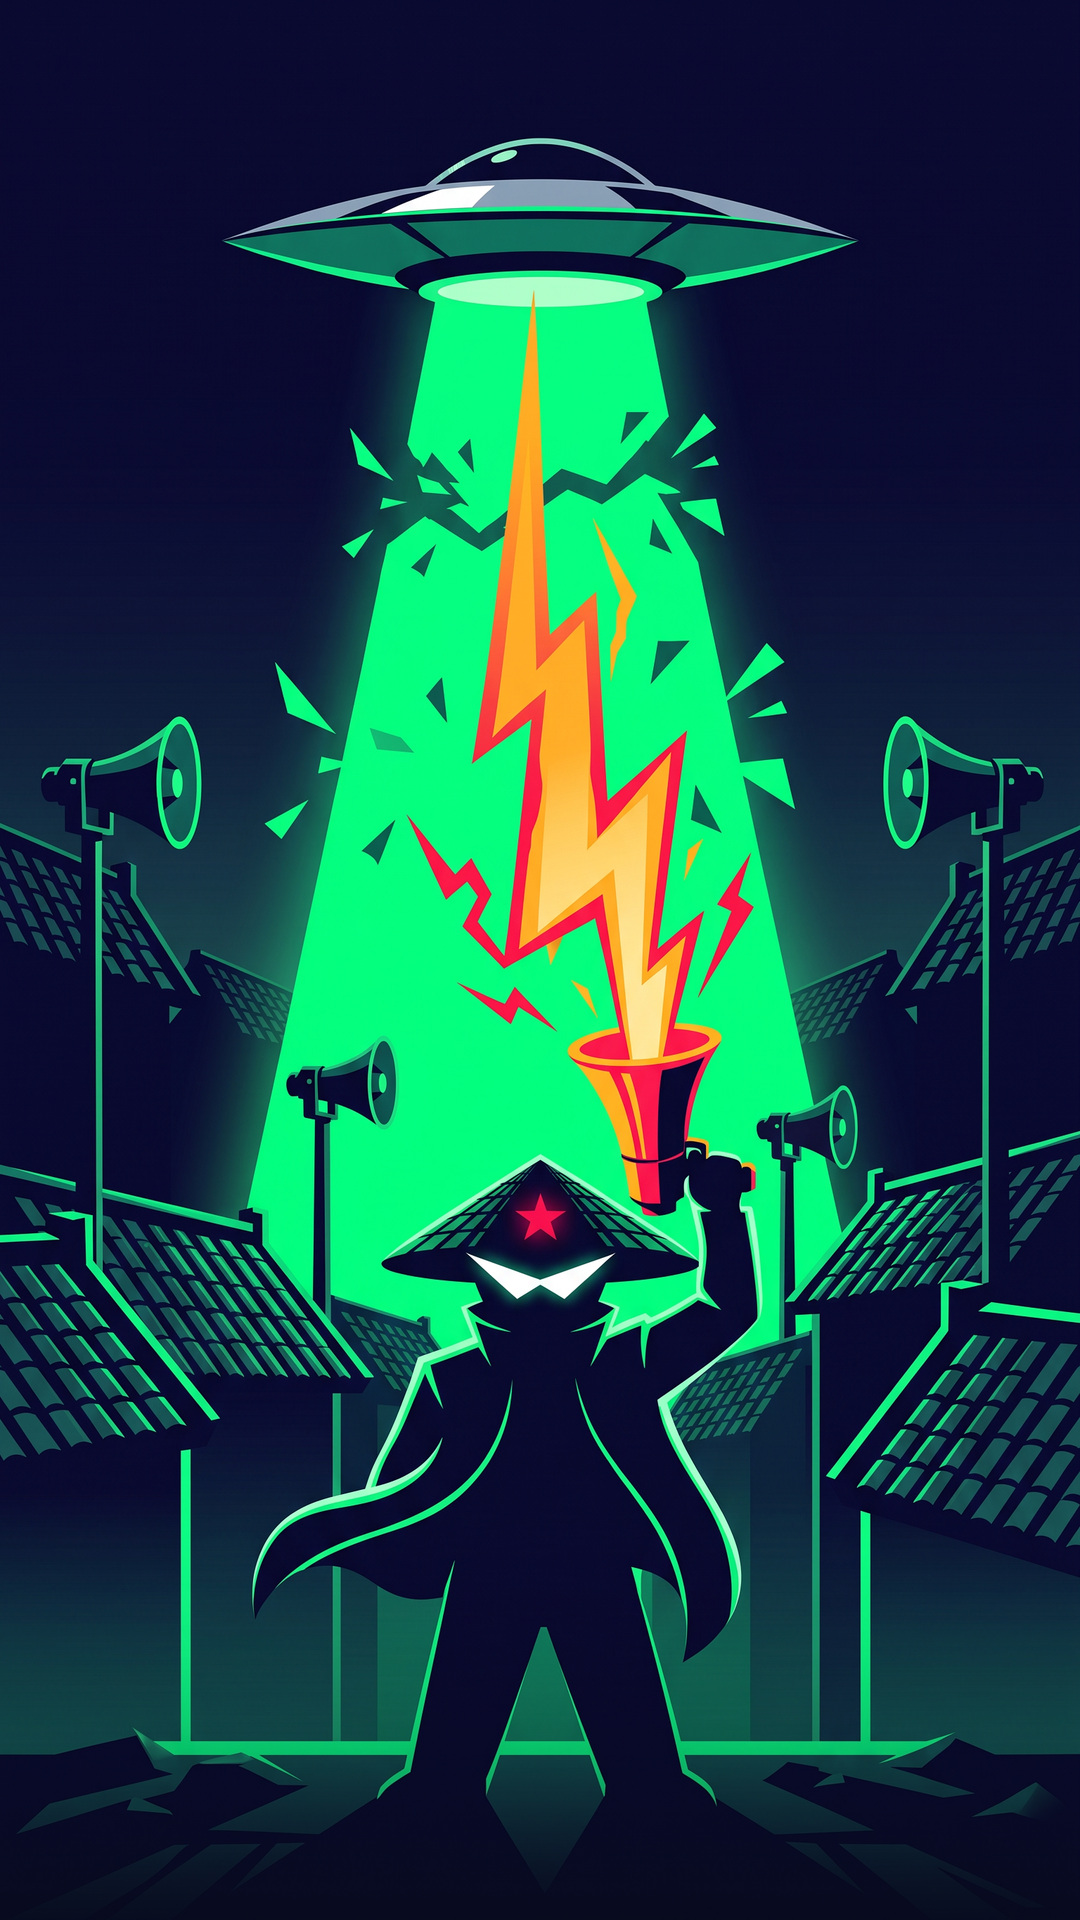
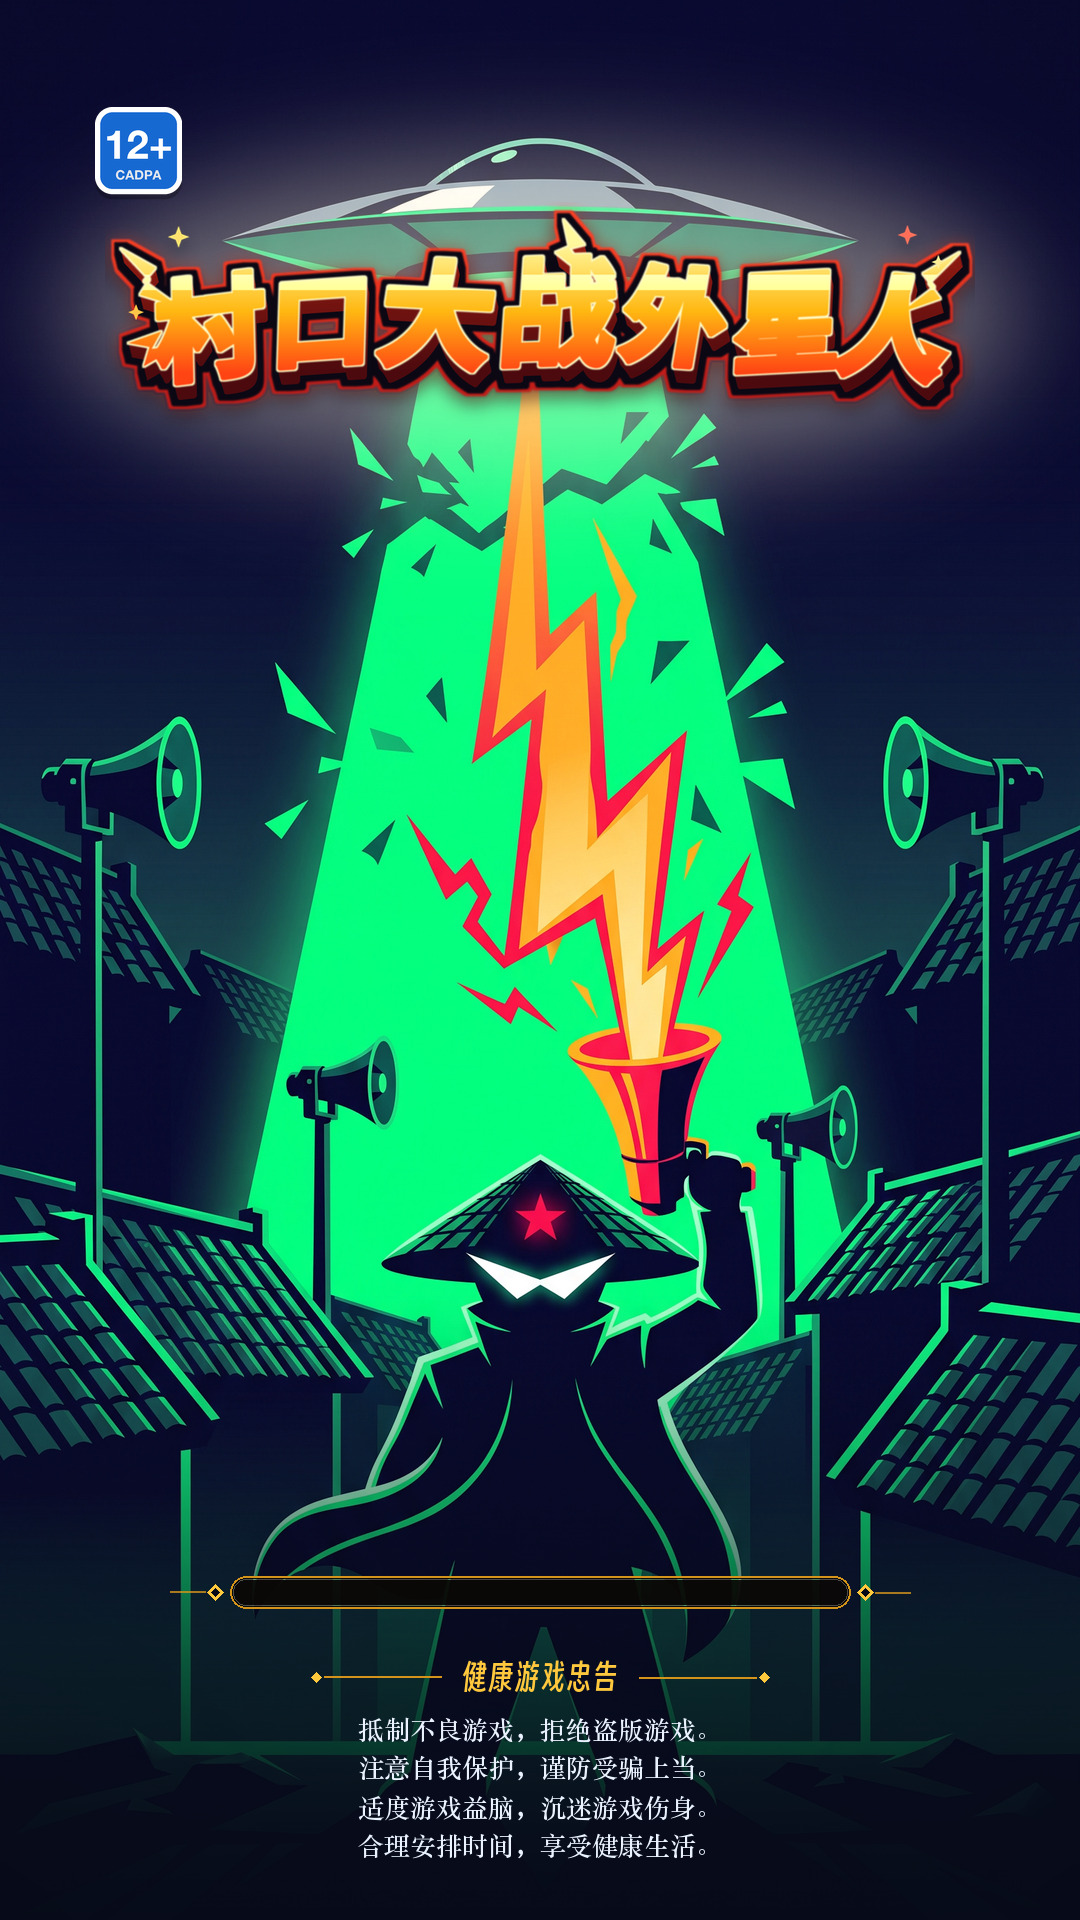
fix(art): composite 04-style title, progress track, and health advice onto loading.jpg

Changed region(s): [[0.0306, 0.0312, 0.9778, 0.2812], [0.0, 0.7188, 1.0, 0.9688], [0.55, 0.75, 0.5806, 0.7812]]

diff --git a/tools/build_loading_art.py b/tools/build_loading_art.py
@@ -40,13 +40,13 @@ BAR_W, BAR_H, BAR_BOTTOM = 400, 10, 214
 TEXT_BOTTOM, TEXT_H = 232, 20
 ADVICE_TITLE_Y = 162
 ADVICE_BOTTOM, ADVICE_STEP = 36, 26
-LOGO_W, LOGO_CY = 600, 292
+LOGO_W, LOGO_CY = 580, 210
 BADGE_X, BADGE_Y, BADGE_SIZE = 92, 100, 58
 
-GOLD = (222, 186, 112)
-GOLD_DEEP = (176, 132, 62)
-PAPER = (236, 225, 202)
-NIGHT = (20, 13, 9)
+GOLD = (255, 200, 61)
+GOLD_DEEP = (212, 148, 28)
+PAPER = (234, 242, 255)
+NIGHT = (7, 11, 24)
 
 ADVICE_TITLE = "健康游戏忠告"
 ADVICE = [
@@ -296,7 +296,8 @@ def main():
     OUT.parent.mkdir(parents=True, exist_ok=True)
     im.convert("RGB").save(OUT, "JPEG", quality=92, optimize=True, subsampling=0)
     print(f"启动页 {OUT}  {W}x{H}  {OUT.stat().st_size // 1024}KB")
-    export_logo()
+    if LOGO.suffix.lower() != ".png":
+        export_logo()
 
 
 if __name__ == "__main__":
